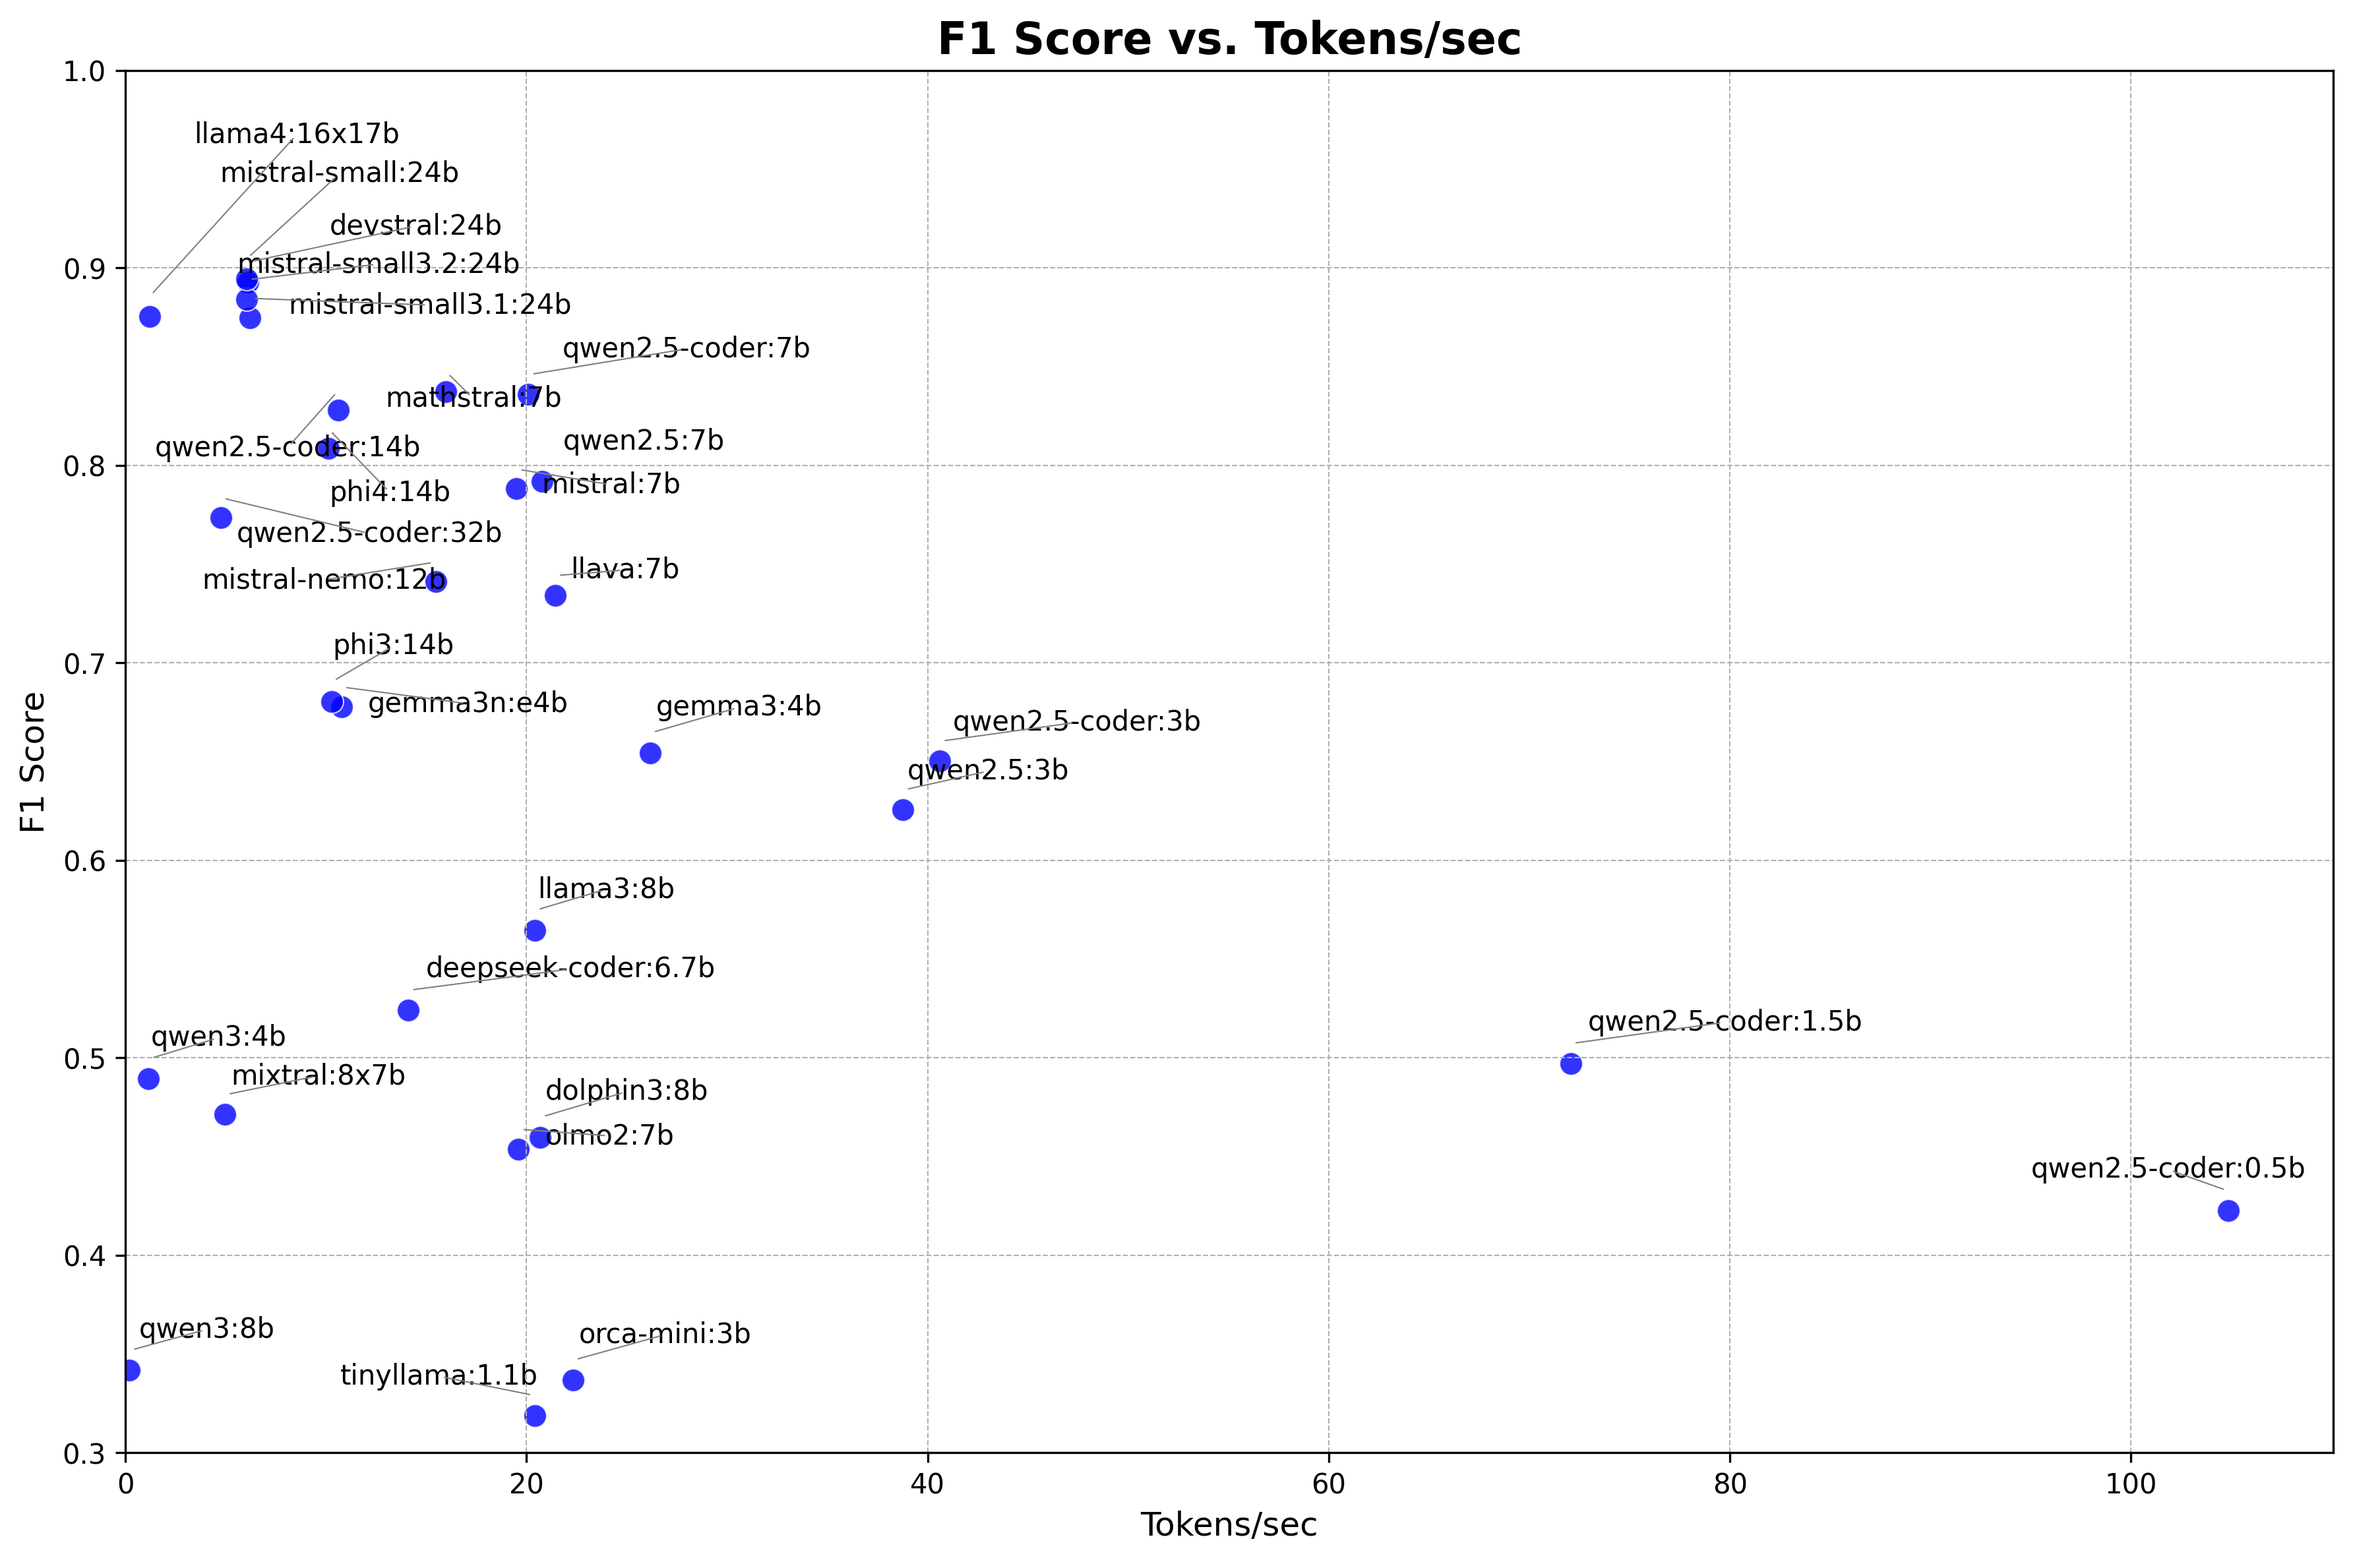
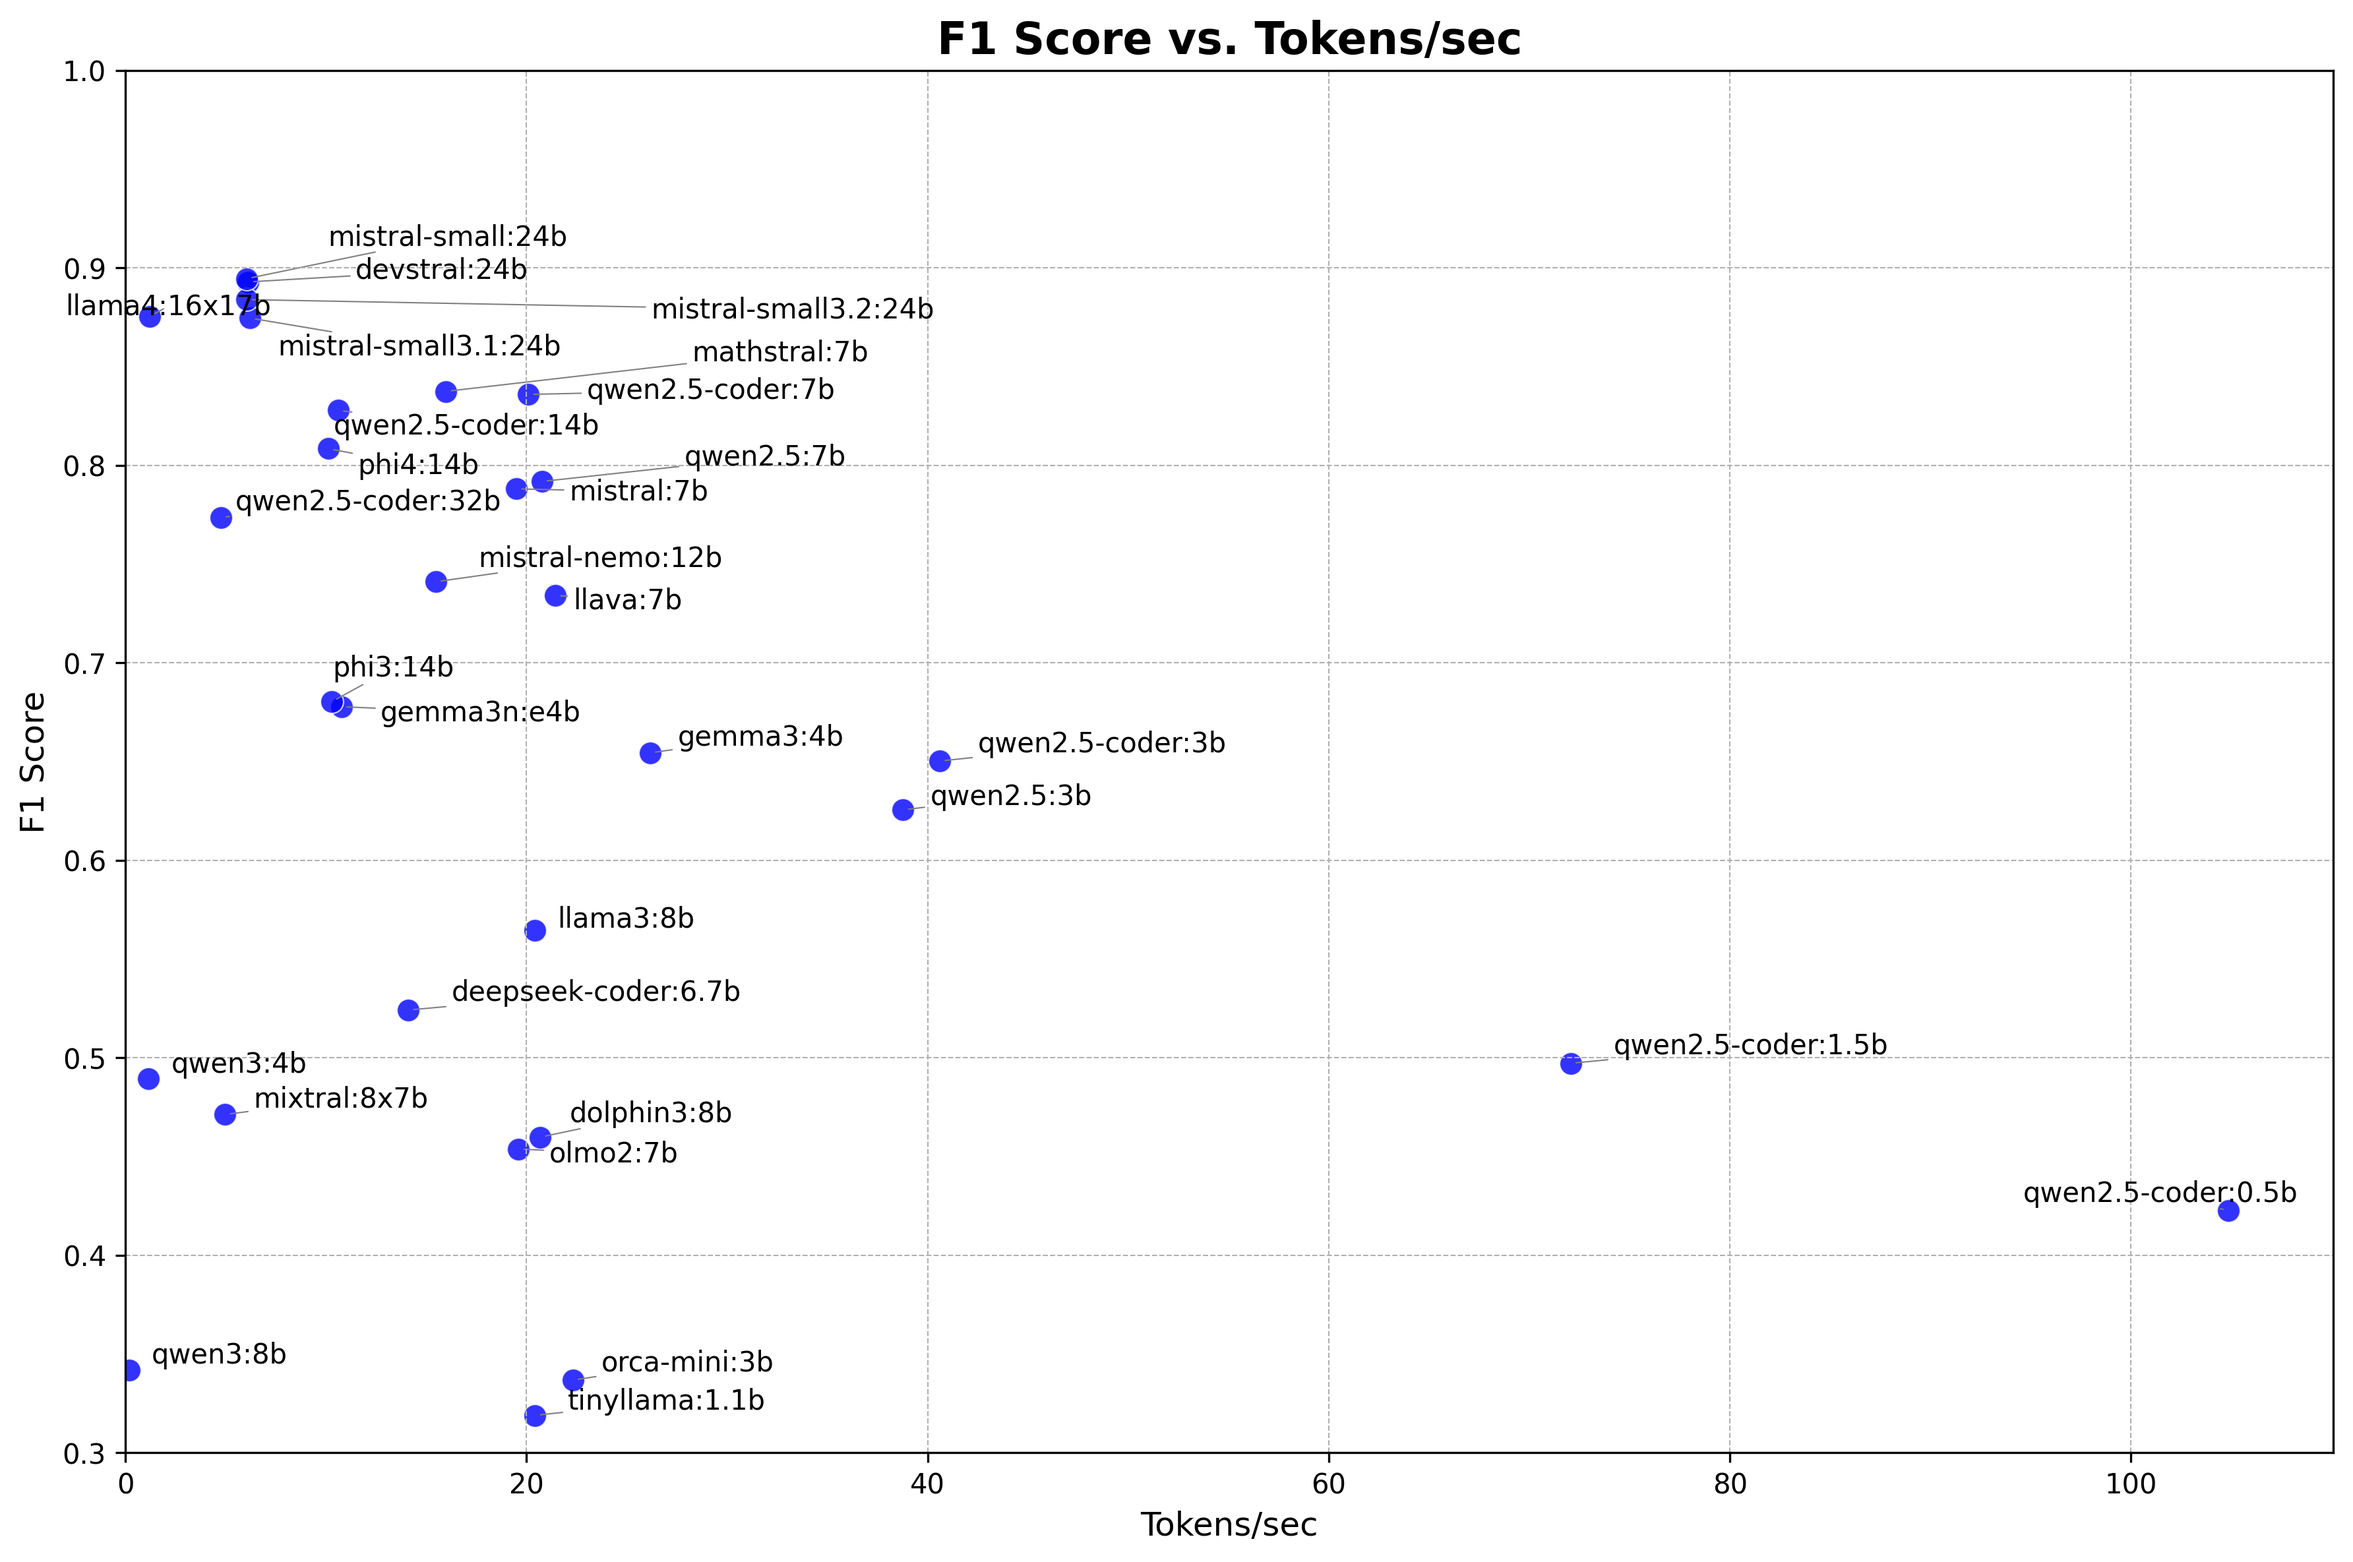
feat: restored old state of scripts

diff --git a/plotting/python/plot_f1_vs_tokens.py b/plotting/python/plot_f1_vs_tokens.py
@@ -3,47 +3,44 @@ import matplotlib.pyplot as plt
 from adjustText import adjust_text
 
 # Load the data
+# Make sure the CSV file is in the same directory as this script,
+# or provide the full path to the file.
 file_path = "../data/benchmark_summary_all_fields.csv"
 df = pd.read_csv(file_path)
 
 # Create the plot
-plt.figure(figsize=(12, 8))
+plt.figure(figsize=(12, 8)) # Increased figure size for better readability
 texts = []
 
 # Plot each point and collect labels for adjustment
+# This loop is necessary for adjust_text to work with individual labels
 for _, row in df.iterrows():
     x = row["averageTokensPerSecondSuccessful"]
     y = row["averageOverallF1AcrossCategories"]
     label = row["modelName"]
     plt.scatter(x, y, color='blue', s=70, alpha=0.8, edgecolors='w', linewidth=0.5)
-    # Small vertical nudge for readability
-    texts.append(plt.text(x, y + 0.01, label, fontsize=10, ha='center', va='bottom'))
+    texts.append(plt.text(x, y, label, fontsize=10))
+
+# Adjust label positions to avoid overlaps
+# This function intelligently moves text labels to prevent them from colliding.
+adjust_text(texts, arrowprops=dict(arrowstyle="-", color='gray', lw=0.5))
 
 # --- AXIS LIMITS ---
-# Restore original F1 axis range (0.3 to 1.0)
+# Set the y-axis to range from 0 to 1.0 for F1 Score
 plt.ylim(0.3, 1.0)
-plt.xlim(left=0)
 
-# Adjust label positions to avoid overlaps (only vertical movement)
-adjust_text(
-    texts,
-    only_move={'points': 'y', 'text': 'y'},
-    force_points=0.3,
-    force_text=0.8,
-    expand_points=(1.1, 1.3),
-    arrowprops=dict(arrowstyle="-", color='gray', lw=0.5)
-)
+plt.xlim(left=0)
 
 # Customize the plot
 plt.xlabel("Tokens/sec", fontsize=12)
 plt.ylabel("F1 Score", fontsize=12)
 plt.title("F1 Score vs. Tokens/sec", fontsize=16, fontweight='bold')
 plt.grid(True, which='both', linestyle='--', linewidth=0.5)
-plt.tight_layout()
+plt.tight_layout() # Adjusts plot to ensure everything fits without overlapping
 
 # Save the plot to a file
 output_file = "../plots/f1_vs_tokens_per_sec.png"
 plt.savefig(output_file, format='png', dpi=300, bbox_inches='tight')
-plt.close()
+plt.close() # Close the plot figure to free up memory
 
 print(f"Plot successfully saved as '{output_file}'")

diff --git a/plotting/python/plot_exact_match_vs_tokens.py b/plotting/python/plot_exact_match_vs_tokens.py
@@ -3,47 +3,44 @@ import matplotlib.pyplot as plt
 from adjustText import adjust_text
 
 # Load the data
+# Make sure the CSV file is in the same directory as this script,
+# or provide the full path to the file.
 file_path = "../data/benchmark_summary_all_fields.csv"
 df = pd.read_csv(file_path)
 
 # Create the plot
-plt.figure(figsize=(12, 8))
+plt.figure(figsize=(12, 8)) # Increased figure size for better readability
 texts = []
 
 # Plot each point and collect labels for adjustment
+# This loop is necessary for adjust_text to work with individual labels
 for _, row in df.iterrows():
     x = row["averageTokensPerSecondSuccessful"]
     y = row["percentageExactMatchesOverall"]
     label = row["modelName"]
     plt.scatter(x, y, color='blue', s=70, alpha=0.8, edgecolors='w', linewidth=0.5)
-    # small vertical nudge so the text isn't on top of the dot
-    texts.append(plt.text(x, y + 1.0, label, fontsize=10, ha='center', va='bottom'))
+    texts.append(plt.text(x, y, label, fontsize=10))
+
+# Adjust label positions to avoid overlaps
+# This function intelligently moves text labels to prevent them from colliding.
+adjust_text(texts, arrowprops=dict(arrowstyle="-", color='gray', lw=0.5))
 
 # --- AXIS LIMITS ---
 # Set the y-axis to range from 0 to 100
 plt.ylim(0, 100)
-plt.xlim(left=0)
 
-# Adjust label positions to avoid overlaps (move labels vertically only)
-adjust_text(
-    texts,
-    only_move={'points': 'y', 'text': 'y'},
-    force_points=0.3,
-    force_text=0.8,
-    expand_points=(1.1, 1.3),
-    arrowprops=dict(arrowstyle="-", color='gray', lw=0.5)
-)
+plt.xlim(left=0)
 
 # Customize the plot
 plt.xlabel("Tokens/sec", fontsize=12)
 plt.ylabel("Percentage of Exact Matches (%)", fontsize=12)
 plt.title("Exact Matches vs. Tokens/sec", fontsize=16, fontweight='bold')
 plt.grid(True, which='both', linestyle='--', linewidth=0.5)
-plt.tight_layout()
+plt.tight_layout() # Adjusts plot to ensure everything fits without overlapping
 
 # Save the plot to a file
 output_file = "../plots/exact_matches_vs_tokens_per_sec.png"
 plt.savefig(output_file, format='png', dpi=300, bbox_inches='tight')
-plt.close()
+plt.close() # Close the plot figure to free up memory
 
 print(f"Plot successfully saved as '{output_file}'")
